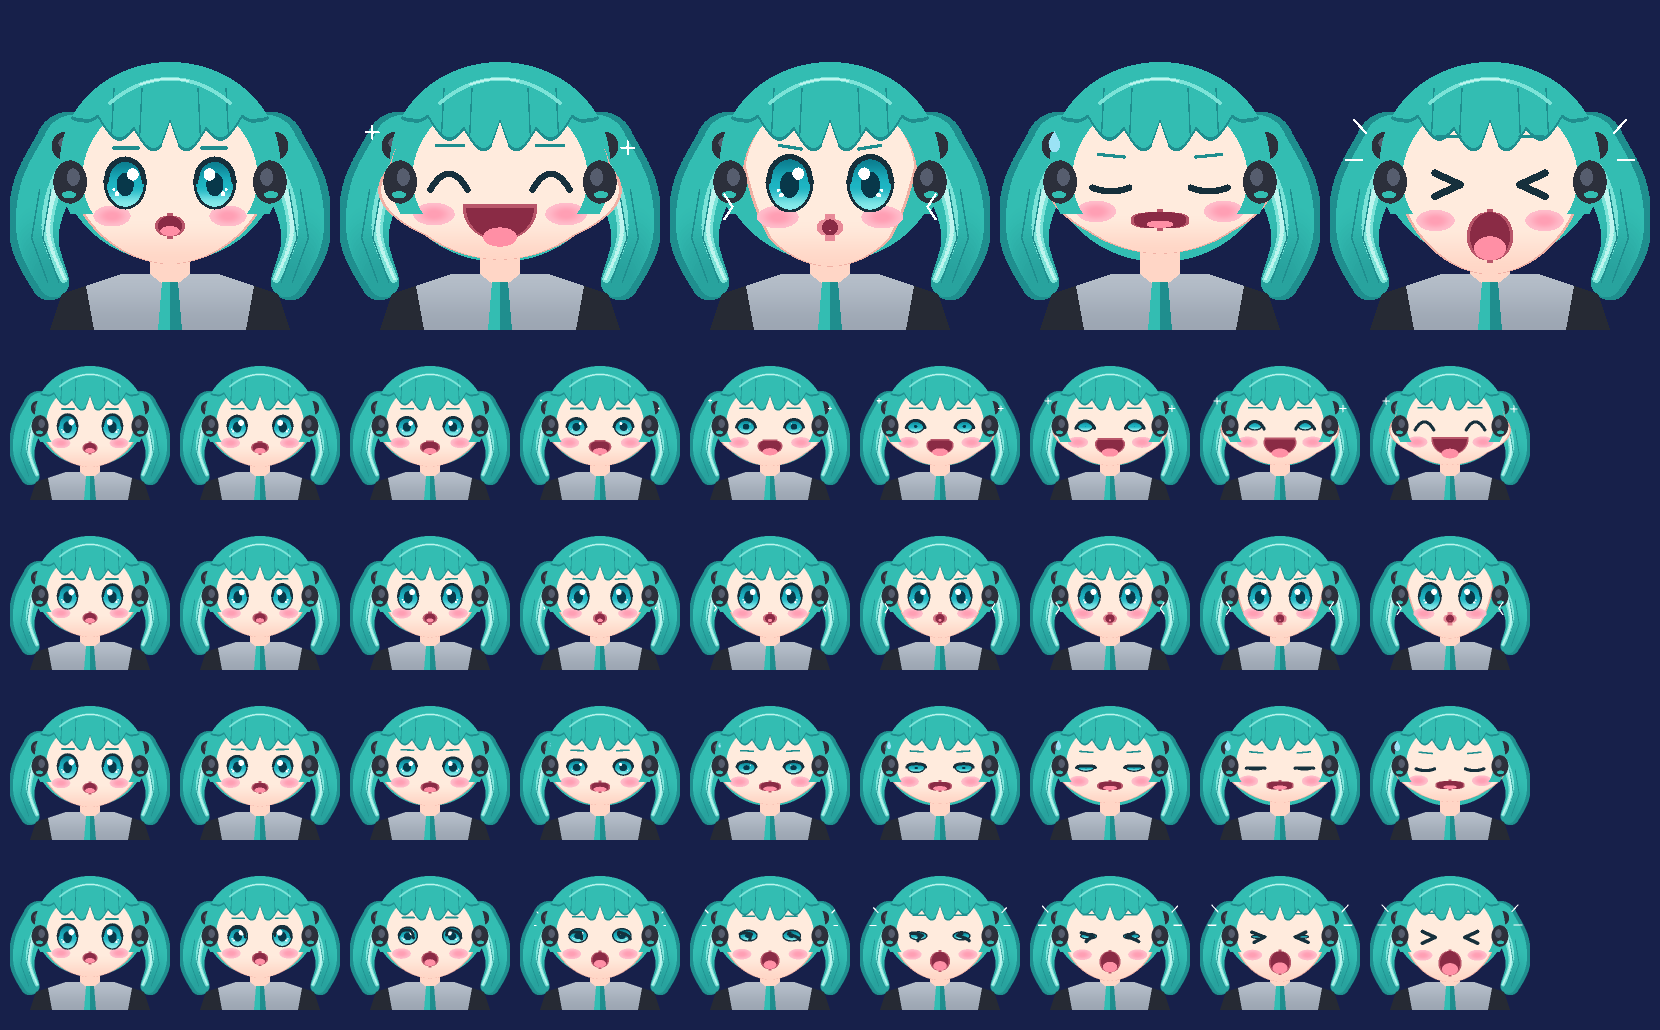
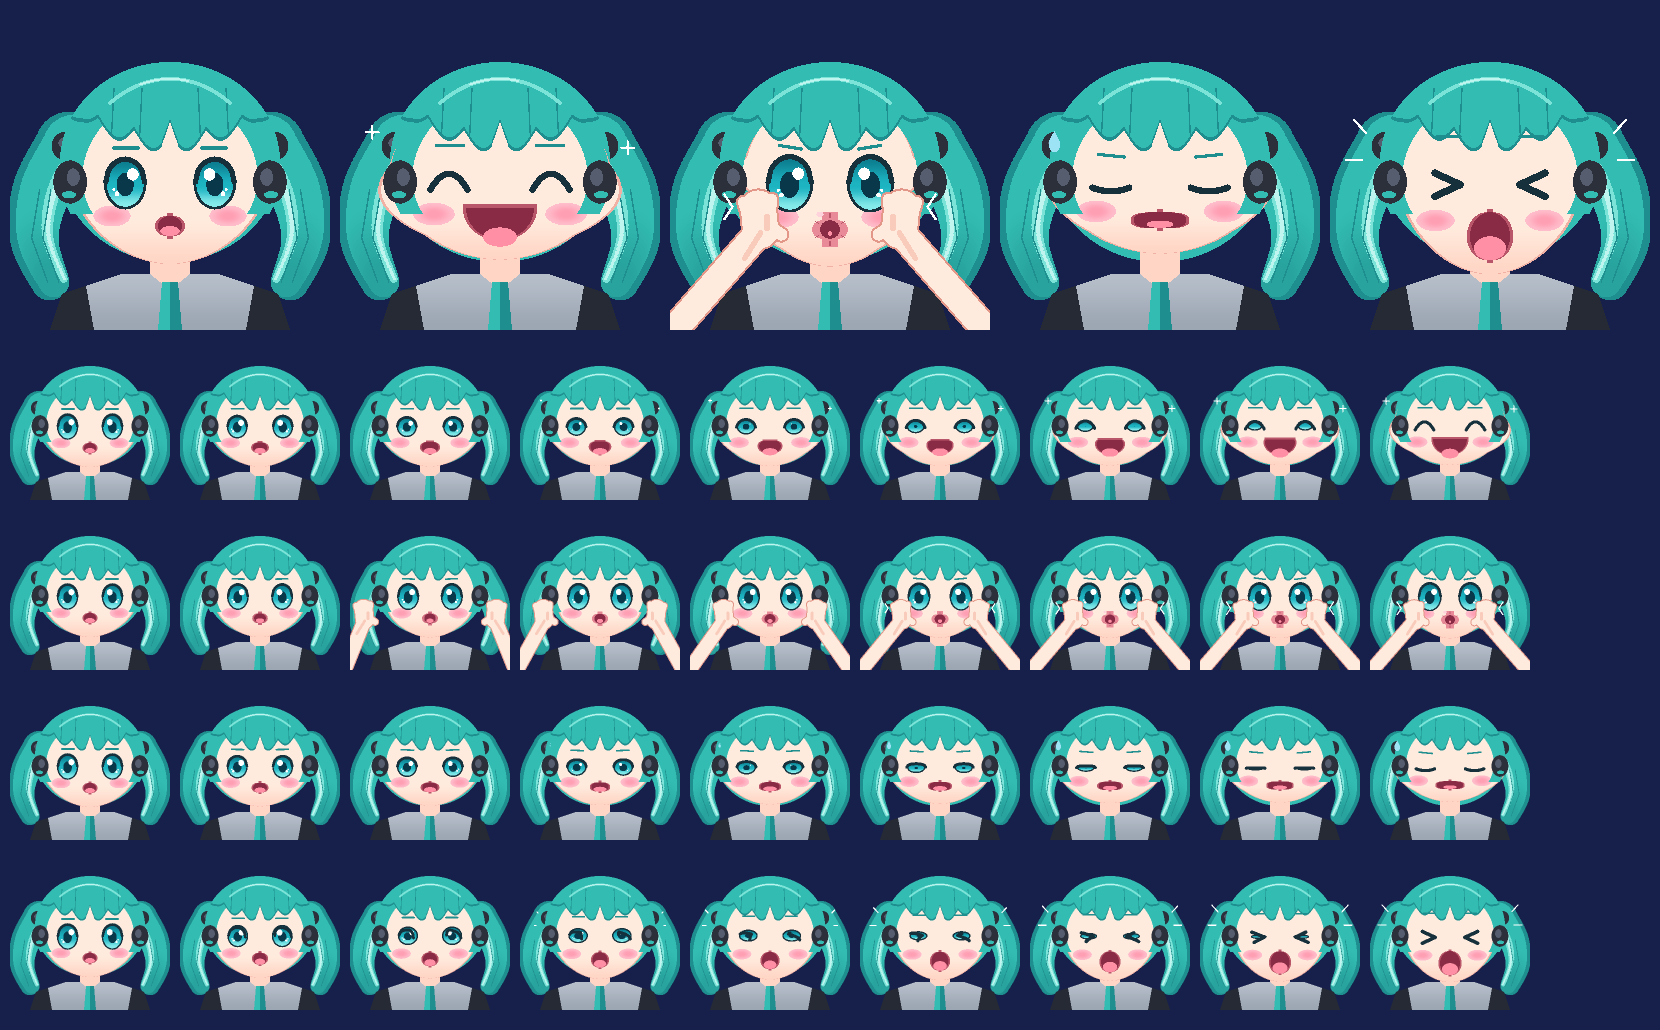
ぶにゅっとミク build 5: 「う」を両手でほっぺを押さえる表情に
- 顔の両側から両手が出て、ほっぺを押さえる(押さえる強さに応じて外側から近づく。ぽってりした4本指の手と腕)
- 押された頬は、手の当たる所がへこみ、上下がふくらむ(head.cheek.puff)
- 唇をちゅっと突き出した口: 厚い唇、縦じわ(mouth.wrinkle)、つや(mouth.shine)
- すべてデザインデータ(miku-face.json)の項目。あ・い・え・お の描画は1ピクセルも変わらないことをハッシュで確認
- 手・頬・唇のテストを追加(38件)、デザインシートとREADMEを更新

Claude-Session: https://claude.ai/code/session_01MXw4RQN7Z5c2dP9V8ZrWtj

diff --git a/bunyutto-miku/app/src/face.js b/bunyutto-miku/app/src/face.js
@@ -32,13 +32,13 @@ function hex(c) {
 /* ------------------------------------------------------------------ */
 const PALETTE_KEYS = [
   "hair", "hairD", "hairDD", "hairL", "hairLL", "skin", "skinS", "skinSS", "outline", "blush", "blush2",
-  "ink", "white", "irisD", "irisM", "irisL", "pupil", "mouthIn", "tongue", "teeth", "lip", "lipD",
-  "shirt", "shirtS", "sleeve", "sleeveL", "tie", "tieD", "gear", "gearL", "gearT", "spark", "sweat",
+  "ink", "white", "irisD", "irisM", "irisL", "pupil", "mouthIn", "tongue", "teeth", "lip", "lipD", "lipHi",
+  "shirt", "shirtS", "sleeve", "sleeveL", "tie", "tieD", "gear", "gearL", "gearT", "spark", "sweat", "handLine", "handShade",
 ];
 const SECTIONS = ["palette", "head", "eyes", "brows", "blush", "mouth", "hair", "headphones", "body", "fx", "motion", "expressions"];
 const EXPR_FIELDS = ["fw", "fh", "pull", "browY", "browTilt", "blush"];
 const EYE_FIELDS = ["open", "size", "bow", "yoff", "chev"];
-const MOUTH_FIELDS = ["w", "h", "y", "p", "n", "pad"];
+const MOUTH_FIELDS = ["w", "h", "y", "p", "n", "pad", "wrinkle", "shine"];
 const TG_FIELDS = ["dy", "rx", "ry"];
 
 /** デザインデータを検証する。問題があれば、場所つきのメッセージで例外を投げる。 */
@@ -77,6 +77,20 @@ export function validateDesign(d) {
   }
   if (!Array.isArray(d.hair.tails && d.hair.tails.points) || d.hair.tails.points.length < 3) errs.push("hair.tails.points は3点以上の [x,y,揺れ係数] にしてください");
   if (!d.hair.fringe || !d.hair.back) errs.push("hair.back / hair.fringe がありません");
+  const hd = d.fx && d.fx.hands;
+  if (!hd) errs.push("fx.hands がありません");
+  else {
+    for (const k of ["y", "inset", "slide", "tilt", "outline"]) num(hd[k], "fx.hands." + k);
+    for (const [g, ks] of Object.entries({ palm: ["len", "w"], finger: ["n", "w", "len", "spacing", "fan"], thumb: ["w", "len", "dy", "dxIn"], arm: ["w", "toX", "toY"] })) {
+      for (const k of ks) num(hd[g] && hd[g][k], "fx.hands." + g + "." + k);
+    }
+    if (!Array.isArray(hd.ramp) || hd.ramp.length !== 2) errs.push("fx.hands.ramp は [始め, 満量] にしてください");
+  }
+  const pf = d.head.cheek && d.head.cheek.puff;
+  if (!pf) errs.push("head.cheek.puff がありません");
+  else for (const k of ["dy", "height", "amount"]) num(pf[k], "head.cheek.puff." + k);
+  for (const k of ["count", "inner", "outer", "width"]) num(d.mouth.wrinkle && d.mouth.wrinkle[k], "mouth.wrinkle." + k);
+  for (const k of ["dx", "dy", "r"]) num(d.mouth.shine && d.mouth.shine[k], "mouth.shine." + k);
   if (errs.length) throw new Error("デザインデータの問題:\n" + errs.join("\n"));
   return d;
 }
@@ -228,7 +242,7 @@ export function mixExpr(w) {
   const m = {
     fw: 0, fh: 0, pull: 0, browY: 0, browTilt: 0, blush: 0,
     eye: { open: 0, size: 0, bow: 0, yoff: 0, chev: 0 },
-    mouth: { w: 0, h: 0, y: 0, p: 0, n: 0, pad: 0, tg: { dy: 0, rx: 0, ry: 0 } },
+    mouth: { w: 0, h: 0, y: 0, p: 0, n: 0, pad: 0, wrinkle: 0, shine: 0, tg: { dy: 0, rx: 0, ry: 0 } },
     w: {},
   };
   let sum = 0;
@@ -240,7 +254,7 @@ export function mixExpr(w) {
     m.fw += e.fw * wk; m.fh += e.fh * wk; m.pull += e.pull * wk;
     m.browY += e.browY * wk; m.browTilt += e.browTilt * wk; m.blush += e.blush * wk;
     for (const q of Object.keys(m.eye)) m.eye[q] += e.eye[q] * wk;
-    for (const q of ["w", "h", "y", "p", "n", "pad"]) m.mouth[q] += e.mouth[q] * wk;
+    for (const q of ["w", "h", "y", "p", "n", "pad", "wrinkle", "shine"]) m.mouth[q] += e.mouth[q] * wk;
     for (const q of ["dy", "rx", "ry"]) m.mouth.tg[q] += e.mouth.tg[q] * wk;
   }
   return m;
@@ -315,6 +329,7 @@ export class MikuFace {
     this.drawBrows(r, m, fx, fy);
     this.drawHeadphones(r, cx, cy);
     this.drawFx(r, m, fx, fy);
+    this.drawHands(r, m, cx, fy);
 
     if (this.ctx) {
       new Uint32Array(this.imageData.data.buffer).set(r.px);
@@ -378,7 +393,16 @@ export class MikuFace {
       let w = rx_ * Math.sqrt(1 - t * t);
       if (t > 0) w *= 1 - Hd.chinTaper * t * t; // あごはまるく
       const bump = Math.max(0, 1 - Math.pow((yc - (cy + Hd.cheek.y * fh_)) / (Hd.cheek.height * fh_), 2));
-      return w + pull * (pull > 0 ? Hd.cheek.bulgeOut : Hd.cheek.bulgeIn) * bump;
+      w += pull * (pull > 0 ? Hd.cheek.bulgeOut : Hd.cheek.bulgeIn) * bump;
+      if (pull < 0) {
+        // 手で押さえられた頬は、押された所がへこみ、その上と下がふくらむ
+        const pf = Hd.cheek.puff;
+        for (const sg of [-1, 1]) {
+          const bp = Math.max(0, 1 - Math.pow((yc - (cy + (Hd.cheek.y + sg * pf.dy) * fh_)) / (pf.height * fh_), 2));
+          w += -pull * pf.amount * bp;
+        }
+      }
+      return w;
     };
     const hw = outline(fw, fh, m.pull);
     // 髪・ヘッドホンはピンチで変形しない。それらが沿う「ふだんの輪郭」を別に持つ
@@ -554,6 +578,21 @@ export class MikuFace {
     const ring = lerpC(C.lipD, C.lip, Math.min(1, (g.pad - M.ringBase) / M.ringRange));
     r.rows(top - g.pad, my + h / 2 + g.pad, shape(g.pad), ring);
     r.rows(top, my + h / 2, shape(0), C.mouthIn);
+    // すぼめた唇の縦じわ(放射状の線)と、ぷるんとしたつや
+    if (g.wrinkle > 0.05) {
+      const Wr = M.wrinkle;
+      for (let i = 0; i < Wr.count; i++) {
+        const a = ((i + 0.5) / Wr.count) * Math.PI * 2;
+        const ca = Math.cos(a), sa = Math.sin(a);
+        const r0 = Wr.inner * g.pad + 0.0, r1 = Wr.outer * g.pad;
+        const ex0 = half + r0, ey0 = h / 2 + r0, ex1 = half + r1 * g.wrinkle, ey1 = h / 2 + r1 * g.wrinkle;
+        r.line(mx + ca * ex0, my + sa * ey0, mx + ca * ex1, my + sa * ey1, C.lipD, Wr.width);
+      }
+    }
+    if (g.shine > 0.05) {
+      const Sn = M.shine;
+      r.ellipse(mx + half * Sn.dx * 2, top - g.pad * 0.5 + Sn.dy, Sn.r * g.shine, Sn.r * 0.7 * g.shine, C.lipHi);
+    }
     // 舌: 口の大きさに応じて、小さい口ではしぼむ
     const tf = M.tongueFade;
     const tk = smooth(tf[0], tf[1], h) * smooth(tf[0], tf[1], w);
@@ -617,6 +656,54 @@ export class MikuFace {
     }
     r.polyline(ring, C.hairL, Rg.width);
     r.polyline(ring.slice(Rg.hiFrom, Rg.hiTo), C.hairLL, Rg.hiWidth);
+  }
+
+  /* ---- 手: う(横からおさえる)のとき、両手でほっぺを押さえる。重みに応じて近づく ---- */
+  drawHands(r, m, cx, fy) {
+    const Hh = D.fx.hands;
+    const wu = m.w.u;
+    const k = smooth(Hh.ramp[0], Hh.ramp[1], wu);
+    if (k < 0.04) return;
+    const hy = fy(Hh.y);
+    const ow = Hh.outline;
+    for (const side of [-1, 1]) {
+      const edge = this.headHW(hy);
+      // 頬の縁に食い込む位置。弱いうちは外側から近づいてくる
+      const hx = cx + side * ((edge < 0 ? 20 : edge) + Hh.inset + (1 - k) * Hh.slide);
+      const ang = (side * Hh.tilt * Math.PI) / 180;
+      const ux = Math.sin(ang), uy = -Math.cos(ang); // 指の向き(上。外側へ少し傾ける)
+      const px = -uy, py = ux;
+      const pl = Hh.palm.len, pw = Hh.palm.w;
+      const c = [hx, hy];
+      const top = [c[0] + ux * pl / 2, c[1] + uy * pl / 2];
+      const bot = [c[0] - ux * pl / 2, c[1] - uy * pl / 2];
+      const F = Hh.finger;
+      const parts = []; // [x0,y0,x1,y1,width]
+      parts.push([bot[0], bot[1], top[0], top[1], pw]); // てのひら
+      for (let j = 0; j < F.n; j++) {
+        const o = (j - (F.n - 1) / 2) * F.spacing;
+        const bx = top[0] + px * o, by = top[1] + py * o;
+        const dx = ux + px * o * F.fan * 0.5, dy = uy + py * o * F.fan * 0.5;
+        const dl = Math.hypot(dx, dy);
+        const len = F.len * (1 - 0.12 * Math.abs(j - (F.n - 1) / 2));
+        parts.push([bx, by, bx + (dx / dl) * len, by + (dy / dl) * len, F.w]);
+      }
+      const T = Hh.thumb;
+      const tb = [c[0] - side * (pw * 0.35), c[1] + T.dy];
+      parts.push([tb[0], tb[1], tb[0] - side * T.dxIn * T.len, tb[1] + T.len * 0.55, T.w]);
+      const A = Hh.arm;
+      const arm = [bot[0], bot[1], cx + side * A.toX, A.toY, A.w];
+      // 外側の線 → 肌の順に塗って、まるい輪郭にする
+      r.line(arm[0], arm[1], arm[2], arm[3], C.handLine, arm[4] + ow * 2);
+      for (const q of parts) r.line(q[0], q[1], q[2], q[3], C.handLine, q[4] + ow * 2);
+      r.line(arm[0], arm[1], arm[2], arm[3], C.skin, arm[4]);
+      for (const q of parts) r.line(q[0], q[1], q[2], q[3], C.skin, q[4]);
+      // てのひらの影(頬に当たる側)と、爪のような小さなハイライト
+      // てのひらの影(頬に当たる側)
+      r.line(c[0] - side * pw * 0.22, c[1] - pl * 0.1, c[0] - side * pw * 0.22, c[1] + pl * 0.4, C.handShade, 1.6);
+      // 腕のつけ根の影
+      r.line(bot[0], bot[1] + 0.6, bot[0] + side * 4, bot[1] + 7, C.handShade, 1.4);
+    }
   }
 
   /* ---- 効果(マンガ記号): 母音の重みに応じて大きさが連続して変わる ---- */

diff --git a/bunyutto-miku/app/src/game.js b/bunyutto-miku/app/src/game.js
@@ -14,7 +14,7 @@ import { SONGS, dataUrl } from "./songs.js";
 import { DemoSource } from "./demo.js";
 import { TextAliveSource } from "./textalive.js";
 
-export const BUILD = 4;
+export const BUILD = 5;
 
 /* 母音ごとの色。ノーツ・ガイド・結果で共通 */
 const VCOL = { a: "#FF7EB6", i: "#FFC93C", u: "#9B7BFF", e: "#38D6CB", o: "#FF6F5E" };

diff --git a/bunyutto-miku/app/index.html b/bunyutto-miku/app/index.html
@@ -111,7 +111,7 @@
   </div>
 </div>
 
-<script>window.BUNYU_BUILD = 4;</script>
+<script>window.BUNYU_BUILD = 5;</script>
 <!-- CDN 依存を避けるため検証済みバージョンを同梱 -->
 <script src="./vendor/axios.min.js"></script>
 <script src="./vendor/textalive-app-api-0.5.2.js"></script>

diff --git a/bunyutto-miku/design/README.md b/bunyutto-miku/design/README.md
@@ -36,12 +36,12 @@
 
 ### `palette` — 色(`#RRGGBB`)
 髪 `hair`(本体) `hairD`/`hairDD`(影) `hairL`/`hairLL`(つや)、肌 `skin`/`skinS`(あご下の影)/`skinSS`、`outline`(顔の輪郭線)、
-`blush`/`blush2`(頬紅の中心/ふち)、目 `ink`(線)/`irisD`/`irisM`/`irisL`(虹彩の上→下)/`pupil`、
+`blush`/`blush2`(頬紅の中心/ふち)、`lipHi`(唇のつや)、`handLine`/`handShade`(手の輪郭・影)、目 `ink`(線)/`irisD`/`irisM`/`irisL`(虹彩の上→下)/`pupil`、
 口 `mouthIn`/`tongue`/`lip`/`lipD`、服 `shirt`/`shirtS`/`sleeve`/`tie`/`tieD`、ヘッドホン `gear`/`gearL`/`gearT`、演出 `spark`/`sweat`。
 
 ### `head` — 顔
 `cx,cy` 中心 / `rx,ry` ふだんの半径 / `chinTaper` あごの細り / `cheek.{y,height,bulgeOut,bulgeIn}` ほっぺの位置・範囲と、
-引っ張る/押さえるときのふくらみ量 / `shade` あご下の影のかかり方 / `outlineWidth` 輪郭線の太さ。
+引っ張る/押さえるときのふくらみ量 / `cheek.puff` 押さえられたとき、押された所の上下がふくらむ量 / `shade` あご下の影のかかり方 / `outlineWidth` 輪郭線の太さ。
 
 ### `eyes` — 目
 `size` **全体の大きさ**(1.0=初版。小さくすると控えめに) / `dx` 左右の距離 / `y` 高さ / `rx,ry` 基準の半径 /
@@ -60,6 +60,7 @@
 ### `headphones` `body` `fx`
 ヘッドホン(大きさ・位置)、首・肩・ネクタイ(点列。`sleeve` は左側で、右は反転)、マンガ記号 `fx`(`sparkle` きらきら=い、`squeeze` 内向きの線=う、
 `sweat` 汗=え、`shout` 声の線=お。`ramp` は現れ始める/満量になる重み)。
+**`hands`**: う のとき**両手でほっぺを押さえる**(強さに応じて外側から近づく)。`palm`/`finger`/`thumb`/`arm` が手のかたち、`y` 高さ、`inset` 頬への食い込み、`slide` 現れ始めのずれ。
 
 ### `motion` — 動き
 `weightSmoothSec` 指の動きに顔が追いつく速さ(小さいほど機敏) / `blink.{periodMs,durationMs}` まばたき / `beatBounce` `bounceFollow` 拍の弾み /
@@ -83,6 +84,7 @@
 | `mouth.n` | 角の立ち(2 = 丸、3 = 四角寄り) |
 | `mouth.pad` | くちびるの太さ(大きいほど太く明るい色) |
 | `mouth.tg` | 舌の位置・大きさ(口の大きさに対する比 `dy` `rx` `ry`) |
+| `mouth.wrinkle` `mouth.shine` | 唇の縦じわ(すぼめ口)とつやの強さ(0〜1。形は上の `mouth` セクション) |
 
 表情を足すとき: 母音は 5 つ固定(ゲーム側の対応)なので、新しい「表情」は既存の母音の値を変えて作る。
 値は連続的に混ざるので、極端に違う形にすると途中の形が崩れる。必ずラボのコマ送りで途中を確認すること。
